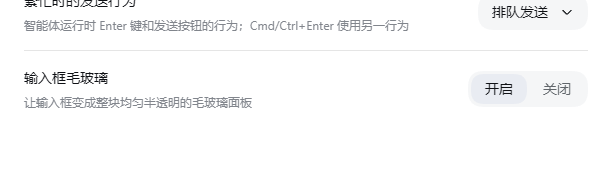
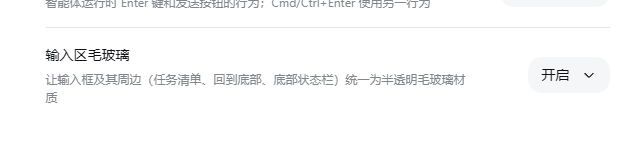
docs: restack the preview images and document the uninstall settings residue
Drop the Notes section, stack the three screenshots full width instead of side-by-side (they were unreadably small), align the copy with the new 输入区毛玻璃 / Composer-area frosted glass row and its selector, and note in the callout that dsh plugin remove leaves composer-glass.enabled in settings.yaml.

diff --git a/README.en.md b/README.en.md
@@ -2,12 +2,12 @@
 
 # dsh-composer-glass
 
-**Turns the DSH composer into a single uniformly translucent frosted-glass pane**
+**Turns the DSH composer area into one uniformly translucent frosted-glass material**
 
-Toggle lives in Settings → General
+Selector lives in Settings → General
 
 [![License: MIT](https://img.shields.io/badge/License-MIT-blue.svg)](LICENSE)
-[![Type: DSH Plugin](https://img.shields.io/badge/Type-DSH%20Plugin-8A2BE2.svg)](#install)
+[![Type: DSH Plugin](https://img.shields.io/badge/Type-DSH%20Plugin-8A2BE2.svg)](#quick-start)
 
 </div>
 
@@ -15,40 +15,41 @@ Toggle lives in Settings → General
 
 ## Preview
 
-|                 Start a session                 |                  In conversation                  |
-| :---------------------------------------------: | :-----------------------------------------------: |
-| ![Start a session](images/01-start-session.png) | ![In conversation](images/02-in-conversation.png) |
+**Starting a session**
+
+![Starting a session](images/01-start-session.png)
+
+**In conversation**
+
+![In conversation](images/02-in-conversation.png)
+
+**Settings → General**
+
+![Settings](images/03-settings.png)
 
 ## Features
 
 - The composer is rendered as **one uniformly translucent frosted-glass material**, not partial blur
-- The same material covers the **to-do dock** above it (collapsed and expanded alike), the floating **back-to-bottom** button, and the bottom chip that merges the **session statistics** and **token usage** pills (kept clear of the composer above)
-- A single on/off switch under **Settings → General**, whose choice **persists** across reloads and restarts
-
-![Settings](images/03-settings.png)
+- The same material covers the **to-do dock** above it (collapsed and expanded alike), the floating **back-to-bottom** button, and the bottom chip that merges the **session statistics** and **token usage** pills
+- A **selector** in **Settings → General** (On / Off) whose choice **persists** across page reloads and DSH restarts
 
 ## Quick start
 
-| Action    | Command                                                  |
-| :-------- | :------------------------------------------------------- |
-| Install   | `dsh plugin --profile web add dsh-composer-glass`        |
-| Upgrade   | `dsh plugin --profile web add dsh-composer-glass@latest` |
-| Uninstall | `dsh plugin --profile web remove dsh-composer-glass`     |
+| Action | Command |
+| :- | :- |
+| Install | `dsh plugin --profile web add dsh-composer-glass` |
+| Upgrade | `dsh plugin --profile web add dsh-composer-glass@latest` |
+| Uninstall | `dsh plugin --profile web remove dsh-composer-glass` |
 
-Restart DSH, then enable it under **Settings → General**.
+Restart DSH, then set **Composer-area frosted glass** to On under **Settings → General**.
 
-> \[!NOTE]
-> On Windows, if you clean up leftovers by hand, just delete
-> `node_modules\dsh-composer-glass`.
-
-## Notes
-
-- **The switch persists**: the choice is written to the Host-side
-  `composer-glass` settings namespace (as `composer-glass.enabled` in
-  `settings.yaml`), so it survives a page reload and a DSH restart.
-- **A material, not a refractor**: the composer sits over flat colour, so
-  refracting it produces no visible change. The reasoning and the measurements
-  are in [docs/WHY-NOT-REFRACTION.md](docs/WHY-NOT-REFRACTION.md).
+> [!NOTE]
+> - **Uninstalling leaves a settings residue**: the switch is stored in the
+>   `composer-glass` section of `settings.yaml` (`composer-glass.enabled`), and
+>   `dsh plugin remove` does **not** delete it — remove that section by hand for a
+>   clean uninstall.
+> - On Windows, if a junction is left behind, just delete
+>   `node_modules\dsh-composer-glass`.
 
 ## License
 

diff --git a/README.md b/README.md
@@ -2,12 +2,12 @@
 
 # dsh-composer-glass
 
-**把 DSH 的输入框变成一整块均匀半透明的毛玻璃面板**
+**把 DSH 的输入区变成一整块均匀半透明的毛玻璃**
 
 开关位于 设置 → 通用
 
 [![License: MIT](https://img.shields.io/badge/License-MIT-blue.svg)](LICENSE)
-[![Type: DSH Plugin](https://img.shields.io/badge/Type-DSH%20Plugin-8A2BE2.svg)](#安装)
+[![Type: DSH Plugin](https://img.shields.io/badge/Type-DSH%20Plugin-8A2BE2.svg)](#快速开始)
 
 </div>
 
@@ -15,35 +15,37 @@
 
 ## 效果预览
 
-|                 开始会话                 |                  会话效果                  |
-| :----------------------------------: | :------------------------------------: |
-| ![开始会话](images/01-start-session.png) | ![会话效果](images/02-in-conversation.png) |
+**开始会话**
+
+![开始会话](images/01-start-session.png)
+
+**会话中**
+
+![会话中](images/02-in-conversation.png)
+
+**设置 → 通用**
+
+![设置页面](images/03-settings.png)
 
 ## 特性
 
 - 输入框整体呈现**均匀半透明的毛玻璃材质**，而非局部磨砂
-- 同一材质覆盖输入框、其上的**任务清单**（收起与展开一致）、**回到底部** 悬浮按钮，以及底部把**会话统计**与 **Token 用量** 合成一枚的玻璃胶囊（不与上方输入框重叠）
-- 在 **设置 → 通用** 中提供一键开关，选择**持久保存**（刷新页面、重启 DSH 后保持）
-
-![设置页面](images/03-settings.png)
+- 同一材质覆盖输入框、其上的**任务清单**（收起与展开一致）、**回到底部** 悬浮按钮，以及底部把**会话统计**与 **Token 用量** 合成一枚的玻璃胶囊
+- 在 **设置 → 通用** 中以**下拉选择**（开启 / 关闭）控制，选择**持久保存** —— 刷新页面、重启 DSH 后都保持
 
 ## 快速开始
 
-| 操作 | 命令                                                       |
-| :- | :------------------------------------------------------- |
-| 安装 | `dsh plugin --profile web add dsh-composer-glass`        |
+| 操作 | 命令 |
+| :- | :- |
+| 安装 | `dsh plugin --profile web add dsh-composer-glass` |
 | 升级 | `dsh plugin --profile web add dsh-composer-glass@latest` |
-| 卸载 | `dsh plugin --profile web remove dsh-composer-glass`     |
+| 卸载 | `dsh plugin --profile web remove dsh-composer-glass` |
 
-安装完成后重启 DSH，在 **设置 → 通用** 里打开开关。
+安装完成后重启 DSH，在 **设置 → 通用** 里把「输入区毛玻璃」设为开启。
 
-> \[!NOTE]
-> Windows 上如果手动清理残留目录，删掉 `node_modules\dsh-composer-glass` 即可。
-
-## 说明
-
-- **开关会持久化**：选择写进 Host 侧 `composer-glass` settings 命名空间（落在 `settings.yaml` 的 `composer-glass.enabled`），所以刷新页面或重启 DSH 后都保持。
-- **材质，而非折射**：输入框背后是平坦纯色，折射它不会有任何可见变化。原因与实测记录见 [docs/WHY-NOT-REFRACTION.md](docs/WHY-NOT-REFRACTION.md)。
+> [!NOTE]
+> - **卸载会留下 settings 残留**：开关写在 `settings.yaml` 的 `composer-glass` 段（`composer-glass.enabled`），`dsh plugin remove` **不会**删除它；要彻底清理请手动删除该段。
+> - Windows 上如果还留着 junction，删掉 `node_modules\dsh-composer-glass` 即可。
 
 ## 许可
 
